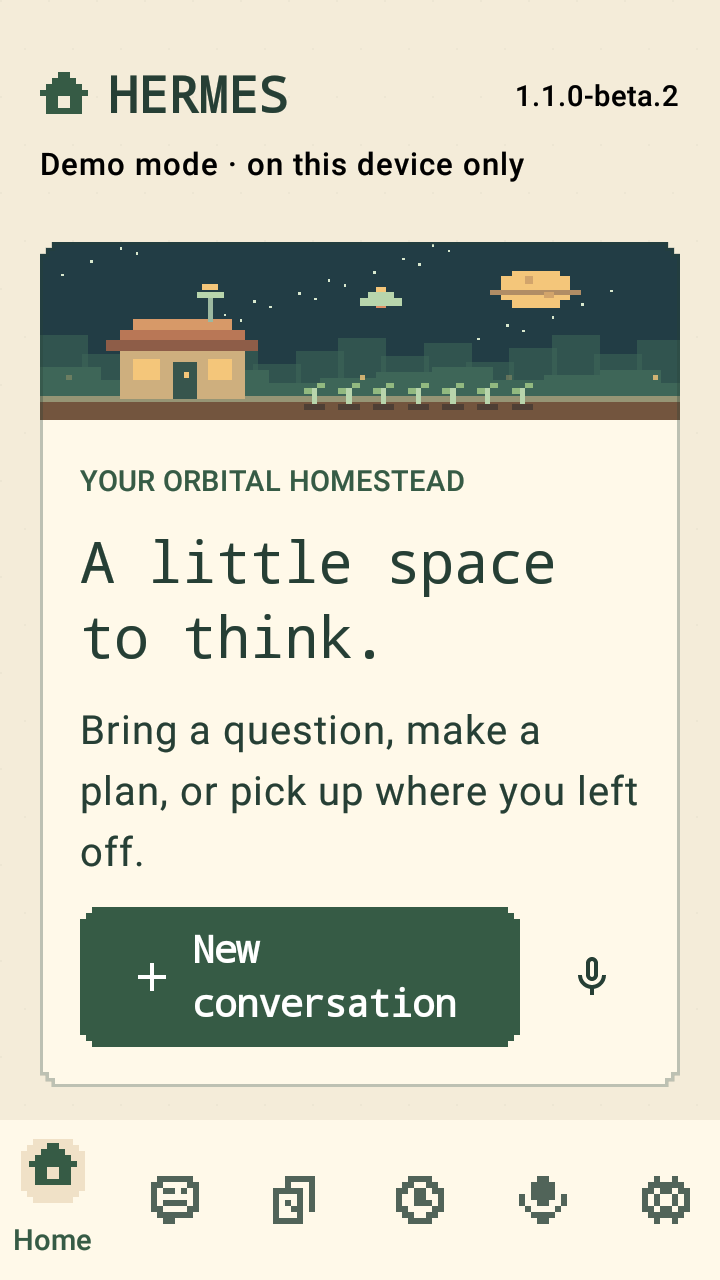
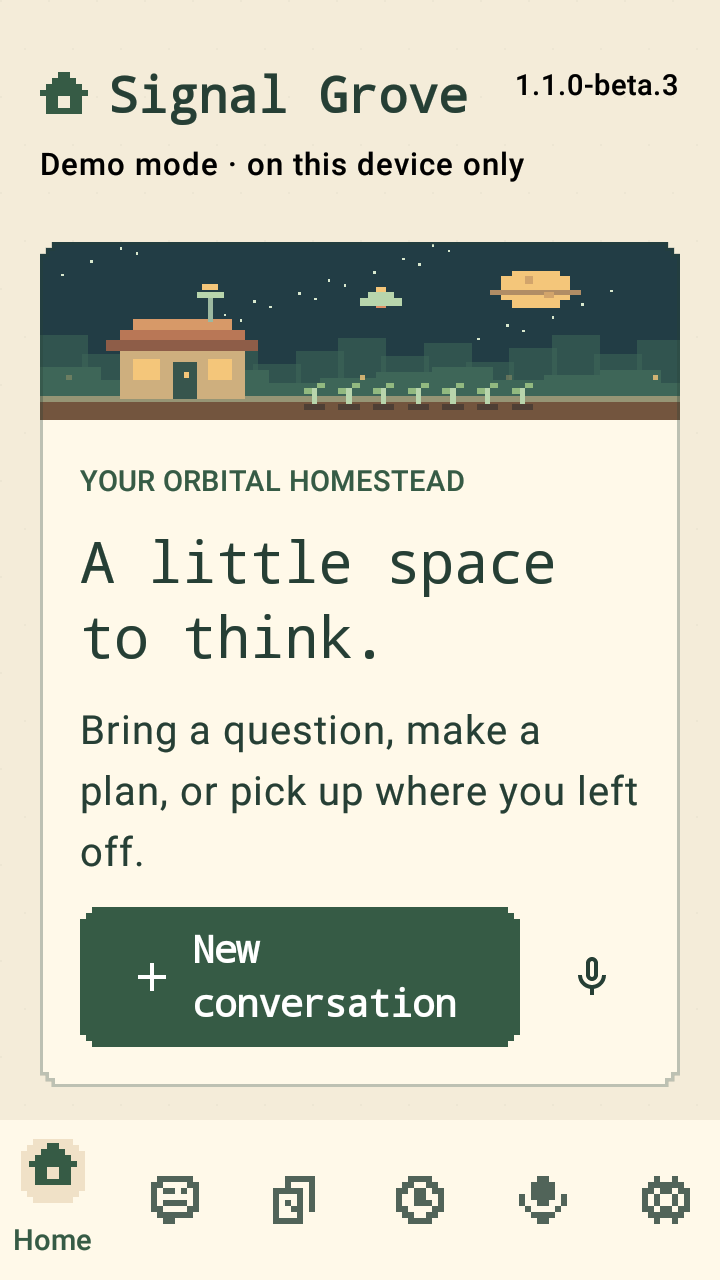
Rebrand Android companion as Signal Grove

Changed region(s): [[0.1528, 0.0312, 0.3972, 0.0938], [0.7028, 0.0625, 0.9472, 0.0938], [0.4278, 0.0625, 0.6417, 0.0938]]

diff --git a/app/src/main/java/org/hermesmobile/app/ui/Strings.kt b/app/src/main/java/org/hermesmobile/app/ui/Strings.kt
@@ -78,7 +78,7 @@ enum class Words(val en: String, val zh: String, val pin: String) {
 
     AppUpdates("App updates","应用更新","Yìngyòng gēngxīn"),
     UpdateInstalled("Installed","已安装","Yǐ ānzhuāng"),
-    UpdateSource("Updates come from the public Hermes Mobile GitHub releases. Checks do not send your Hermes credentials.","更新来自 Hermes Mobile 的公开 GitHub 发布，检查不会发送 Hermes 凭据。","Gēngxīn láizì Hermes Mobile de gōngkāi GitHub fābù, jiǎnchá bù huì fāsòng Hermes píngjù."),
+    UpdateSource("Updates come from the public Signal Grove GitHub releases. Checks do not send your Hermes credentials.","更新来自 Signal Grove 的公开 GitHub 发布，检查不会发送 Hermes 凭据。","Gēngxīn láizì Signal Grove de gōngkāi GitHub fābù, jiǎnchá bù huì fāsòng Hermes píngjù."),
     UpdateAutomatic("Check daily when the app opens","打开应用时每天检查一次","Dǎkāi yìngyòng shí měitiān jiǎnchá yí cì"),
     UpdatePreviews("Include preview releases","包含预览版本","Bāohán yùlǎn bǎnběn"),
     UpdateLastChecked("Last checked","上次检查","Shàng cì jiǎnchá"),
@@ -89,10 +89,10 @@ enum class Words(val en: String, val zh: String, val pin: String) {
     UpdateDownload("Download & update","下载并更新","Xiàzài bìng gēngxīn"),
     UpdateDownloading("Downloading","正在下载","Zhèngzài xiàzài"),
     UpdateDownloadEffect("Downloads this APK from GitHub using your connection. Its size, SHA-256, app identity, newer version and matching signing certificate are checked before installation. Cancel stops the download. A changed or incompatible APK is rejected.","使用网络从 GitHub 下载此 APK。安装前检查大小、SHA-256、应用标识、更新版本及匹配的签名证书。取消会停止下载；更改或不兼容的 APK 会被拒绝。","Shǐyòng wǎngluò cóng GitHub xiàzài cǐ APK. Ānzhuāng qián jiǎnchá dàxiǎo, SHA-256, yìngyòng biāozhì, gèng xīn bǎnběn jí pǐpèi de qiānmíng zhèngshū. Qǔxiāo huì tíngzhǐ xiàzài; gēnggǎi huò bù jiānróng de APK huì bèi jùjué."),
-    UpdateInstallEffect("Android will ask you to allow updates from this app and confirm installation. App data stays in place. Installing restarts Hermes Mobile; it waits while app work is active. If you leave or cancel the installer, the verified download stays available here.","Android 会要求允许此应用安装更新并确认安装。应用数据会保留。安装会重启 Hermes Mobile；应用工作进行时会等待。如果离开或取消安装程序，已验证的下载仍保留在此。","Android huì yāoqiú yǔnxǔ cǐ yìngyòng ānzhuāng gēngxīn bìng quèrèn ānzhuāng. Yìngyòng shùjù huì bǎoliú. Ānzhuāng huì chóngqǐ Hermes Mobile; yìngyòng gōngzuò jìnxíng shí huì děngdài. Rúguǒ líkāi huò qǔxiāo ānzhuāng chéngxù, yǐ yànzhèng de xiàzài réng bǎoliú zài cǐ."),
+    UpdateInstallEffect("Android will ask you to allow updates from this app and confirm installation. App data stays in place. Installing restarts Signal Grove; it waits while app work is active. If you leave or cancel the installer, the verified download stays available here.","Android 会要求允许此应用安装更新并确认安装。应用数据会保留。安装会重启 Signal Grove；应用工作进行时会等待。如果离开或取消安装程序，已验证的下载仍保留在此。","Android huì yāoqiú yǔnxǔ cǐ yìngyòng ānzhuāng gēngxīn bìng quèrèn ānzhuāng. Yìngyòng shùjù huì bǎoliú. Ānzhuāng huì chóngqǐ Signal Grove; yìngyòng gōngzuò jìnxíng shí huì děngdài. Rúguǒ líkāi huò qǔxiāo ānzhuāng chéngxù, yǐ yànzhèng de xiàzài réng bǎoliú zài cǐ."),
     UpdateFinishWork("Finish active app work before installing.","请完成当前应用工作后再安装。","Qǐng wánchéng dāngqián yìngyòng gōngzuò hòu zài ānzhuāng."),
     UpdateInstall("Install verified update","安装已验证的更新","Ānzhuāng yǐ yànzhèng de gēngxīn"),
-    UpdateAllowInstall("Allow updates from Hermes","允许 Hermes 安装更新","Yǔnxǔ Hermes ānzhuāng gēngxīn"),
+    UpdateAllowInstall("Allow updates from Signal Grove","允许 Signal Grove 安装更新","Yǔnxǔ Signal Grove ānzhuāng gēngxīn"),
     UpdateNotes("Release notes","版本说明","Bǎnběn shuōmíng"),
     UpdateReleasePage("View on GitHub","在 GitHub 查看","Zài GitHub chákàn"),
     UpdateHint("Review the release and approve the download in Settings.","请在设置中审阅版本并批准下载。","Qǐng zài shèzhì zhōng shěnyuè bǎnběn bìng pīzhǔn xiàzài."),
@@ -750,7 +750,7 @@ enum class Words(val en: String, val zh: String, val pin: String) {
     Chinese("Show Simplified Chinese","显示简体中文","Xiǎnshì jiǎntǐ Zhōngwén"), Pinyin("Show accented pinyin","显示带声调的拼音","Xiǎnshì dài shēngdiào de pīnyīn"),
     Accessibility("Accessibility","无障碍","Wú zhàng'ài"), ReducedMotion("Reduce motion","减少动画","Jiǎnshǎo dònghuà"),
     About("About & security","关于与安全","Guānyú yǔ ānquán"),
-    AboutBody("Hermes Agent Mobile · {version}. An independent community client, not endorsed by NousResearch. Conversations are stored in app-private storage; the bearer token is encrypted with Android Keystore. Device backups are disabled.","Hermes Agent Mobile · {version}。独立社区客户端，未经 NousResearch 官方认可。对话保存在应用私有存储中；令牌由 Android Keystore 加密。设备备份已禁用。","Hermes Agent Mobile · {version}. Dúlì shèqū kèhùduān, wèi jīng NousResearch guānfāng rènkě. Duìhuà bǎocún zài yìngyòng sīyǒu cúnchǔ zhōng; lìngpái yóu Android Keystore jiāmì. Shèbèi bèifèn yǐ jìnyòng."),
+    AboutBody("Signal Grove · {version}. An independent community client, not endorsed by NousResearch. Conversations are stored in app-private storage; the bearer token is encrypted with Android Keystore. Device backups are disabled.","Signal Grove · {version}。独立社区客户端，未经 NousResearch 官方认可。对话保存在应用私有存储中；令牌由 Android Keystore 加密。设备备份已禁用。","Signal Grove · {version}. Dúlì shèqū kèhùduān, wèi jīng NousResearch guānfāng rènkě. Duìhuà bǎocún zài yìngyòng sīyǒu cúnchǔ zhōng; lìngpái yóu Android Keystore jiāmì. Shèbèi bèifèn yǐ jìnyòng."),
     Security("Your token can grant powerful server access. Use a private VPN or trusted HTTPS. Approvals always require your explicit choice.","令牌可能授予强大的服务器权限。请使用私有 VPN 或可信 HTTPS。批准操作始终需要你明确选择。","Lìngpái kěnéng shòuyǔ qiángdà de fúwùqì quánxiàn. Qǐng shǐyòng sīyǒu VPN huò kěxìn HTTPS. Pīzhǔn cāozuò shǐzhōng xūyào nǐ míngquè xuǎnzé."),
     Github("Source on GitHub","GitHub 源代码","GitHub yuán dàimǎ"), Licences("Open-source licences","开源许可证","Kāiyuán xǔkězhèng"),
     ClearChats("Clear local conversation cache","清除本地对话缓存","Qīngchú běndì duìhuà huǎncún"),

diff --git a/app/src/main/java/org/hermesmobile/app/ui/HermesApp.kt b/app/src/main/java/org/hermesmobile/app/ui/HermesApp.kt
@@ -17,6 +17,8 @@ import androidx.compose.material.icons.outlined.*
 import androidx.compose.material3.*
 import androidx.compose.runtime.*
 import androidx.compose.ui.Modifier
+import androidx.compose.ui.res.stringResource
+import org.hermesmobile.app.R
 import androidx.compose.ui.Alignment
 import androidx.compose.ui.graphics.vector.ImageVector
 import androidx.compose.ui.unit.dp
@@ -25,7 +27,9 @@ import androidx.navigation.compose.*
 
 data class Destination(val word: Words, val icon: ImageVector) { val route get()=word.name }
 val destinations=listOf(Destination(Words.Home,Icons.Outlined.Home),Destination(Words.Chat,Icons.Outlined.ChatBubbleOutline),Destination(Words.Tasks,Icons.Outlined.CheckCircleOutline),Destination(Words.Automation,Icons.Outlined.Schedule),Destination(Words.Voice,Icons.Outlined.MicNone),Destination(Words.Settings,Icons.Outlined.Tune))
+@OptIn(ExperimentalLayoutApi::class)
 @Composable fun HermesApp(vm: HermesViewModel,requestedRoute: String? = null,handled: ()->Unit = {},sharedImages:org.hermesmobile.app.data.SharedImages?=null,shareHandled:()->Unit={}) {
+    val brand=stringResource(R.string.app_name)
     val nav=rememberNavController()
     val back by nav.currentBackStackEntryAsState()
     val current=back?.destination?.route ?: "Home"
@@ -40,13 +44,13 @@ val destinations=listOf(Destination(Words.Home,Icons.Outlined.Home),Destination(
     BoxWithConstraints(Modifier.fillMaxSize().background(MaterialTheme.colorScheme.background).pixelPaper(MaterialTheme.colorScheme.onBackground)) {
         val wide=maxWidth>=840.dp
         Row(Modifier.fillMaxSize()) {
-            if(wide) NavigationRail(Modifier.fillMaxHeight().width(124.dp),containerColor=MaterialTheme.colorScheme.surface,header={ Text("H",style=MaterialTheme.typography.headlineLarge,modifier=Modifier.padding(20.dp)) }) {
+            if(wide) NavigationRail(Modifier.fillMaxHeight().width(124.dp),containerColor=MaterialTheme.colorScheme.surface,header={ Text("SG",style=MaterialTheme.typography.headlineLarge,modifier=Modifier.padding(20.dp).semantics {contentDescription=brand}) }) {
                 destinations.forEach { d -> NavigationRailItem(colors=NavigationRailItemDefaults.colors(indicatorColor=androidx.compose.ui.graphics.Color.Transparent),selected=current==d.route,onClick={go(d.route)},icon={PixelNavIcon(d.route,current==d.route)},label={Text(label(d.word))},modifier=Modifier.padding(vertical=4.dp)) }
             }
             Scaffold(modifier=Modifier.weight(1f),containerColor=androidx.compose.ui.graphics.Color.Transparent,
                 topBar={ Column(Modifier.statusBarsPadding().fillMaxWidth().padding(horizontal=20.dp,vertical=8.dp)) {
-                    Row(Modifier.fillMaxWidth(),horizontalArrangement=Arrangement.SpaceBetween,verticalAlignment=Alignment.CenterVertically) {
-                        Row(verticalAlignment=Alignment.CenterVertically,horizontalArrangement=Arrangement.spacedBy(10.dp)) {PixelIcon("Home",tint=MaterialTheme.colorScheme.primary);Text("HERMES",style=MaterialTheme.typography.titleLarge,color=MaterialTheme.colorScheme.onBackground)}
+                    FlowRow(Modifier.fillMaxWidth(),horizontalArrangement=Arrangement.SpaceBetween,verticalArrangement=Arrangement.spacedBy(4.dp)) {
+                        Row(Modifier.padding(end=12.dp),verticalAlignment=Alignment.CenterVertically,horizontalArrangement=Arrangement.spacedBy(10.dp)) {PixelIcon("Home",tint=MaterialTheme.colorScheme.primary);Text(brand,style=MaterialTheme.typography.titleLarge,color=MaterialTheme.colorScheme.onBackground)}
                         if(keyboardOpen) Icon(if(connection=="connected") Icons.Outlined.CloudDone else if(connection=="demo") Icons.Outlined.SmartToy else Icons.Outlined.CloudOff,label(when(connection) {"demo"->Words.Demo;"connected"->Words.Connected;else->Words.Offline}))
                         Text(org.hermesmobile.app.BuildConfig.VERSION_NAME,style=MaterialTheme.typography.labelSmall,maxLines=1)
                     }

diff --git a/app/src/androidTest/java/org/hermesmobile/app/PixelPolishFlowTest.kt b/app/src/androidTest/java/org/hermesmobile/app/PixelPolishFlowTest.kt
@@ -10,6 +10,7 @@ import androidx.compose.ui.graphics.asAndroidBitmap
 import androidx.lifecycle.ViewModelProvider
 import org.hermesmobile.app.data.AppPreferences
 import org.hermesmobile.app.ui.*
+import org.junit.Assert.*
 import org.junit.Rule
 import org.junit.Test
 import java.io.File
@@ -19,16 +20,27 @@ class PixelPolishFlowTest {
     @get:Rule(order=1) val updates=UpdateFixtureRule()
     @get:Rule(order=2) val compose=createAndroidComposeRule<MainActivity>()
     private fun exercise(reduced:Boolean) {
+        fun assertBrandFits() {
+            val brand=compose.activity.getString(R.string.app_name)
+            assertEquals("Signal Grove",brand)
+            val title=compose.onNodeWithText(brand,useUnmergedTree=true).assertIsDisplayed().getUnclippedBoundsInRoot()
+            val version=compose.onNodeWithText(BuildConfig.VERSION_NAME,useUnmergedTree=true).assertIsDisplayed().getUnclippedBoundsInRoot()
+            val frame=compose.onRoot().getUnclippedBoundsInRoot()
+            assertTrue(title.left>=frame.left && title.right<=frame.right && version.left>=frame.left && version.right<=frame.right)
+            assertTrue(title.right<=version.left || version.right<=title.left || title.bottom<=version.top || version.bottom<=title.top)
+        }
         val original=Settings.Global.getFloat(compose.activity.contentResolver,Settings.Global.ANIMATOR_DURATION_SCALE,1f)
         fun scale(v:Float) {androidx.test.platform.app.InstrumentationRegistry.getInstrumentation().uiAutomation.executeShellCommand("settings put global animator_duration_scale $v").use {android.os.ParcelFileDescriptor.AutoCloseInputStream(it).use {stream->stream.readBytes()}}}
         try {
             scale(1f)
             val vm=ViewModelProvider(compose.activity)[HermesViewModel::class.java]
             compose.runOnUiThread {compose.activity.setContent {HermesAppTheme(AppPreferences(theme="STARHAVEN",chinese=false,pinyin=false,reducedMotion=reduced)) {HermesApp(vm)}}}
+            assertBrandFits()
             compose.onNodeWithText(Words.Greeting.en).assertIsDisplayed()
             compose.onNodeWithTag("home-voice-action").assertWidthIsAtLeast(48.dp).assertHeightIsAtLeast(48.dp)
             val shot=File(compose.activity.getExternalFilesDir(null),"qa/pixel-home-${if(reduced) "still" else "motion"}.png");shot.parentFile!!.mkdirs();shot.outputStream().use {compose.onRoot().captureToImage().asAndroidBitmap().compress(Bitmap.CompressFormat.PNG,100,it)}
             for(route in listOf("Tasks","Voice","Chat","Settings","Home")) {compose.onNodeWithContentDescription(route,useUnmergedTree=true).performClick();compose.waitForIdle()}
+            assertBrandFits()
             compose.onNodeWithText(Words.Greeting.en).assertIsDisplayed()
             if(!reduced) {scale(0f);compose.waitForIdle();compose.onNodeWithContentDescription("Tasks",useUnmergedTree=true).performClick();compose.onNodeWithContentDescription("Home",useUnmergedTree=true).performClick();compose.onNodeWithText(Words.Greeting.en).assertIsDisplayed()}
         } finally {scale(original)}

diff --git a/app/src/main/java/org/hermesmobile/app/background/BackgroundChecks.kt b/app/src/main/java/org/hermesmobile/app/background/BackgroundChecks.kt
@@ -57,7 +57,7 @@ class ReminderWorker(context: Context,params: WorkerParameters):CoroutineWorker(
             if(!enabled(config)) return
             if(dao.claimNotification(NotificationReceipt(key,System.currentTimeMillis()))==-1L) return
             val open=PendingIntent.getActivity(app,route.hashCode(),Intent(app,MainActivity::class.java).putExtra("destination",route).addFlags(Intent.FLAG_ACTIVITY_SINGLE_TOP or Intent.FLAG_ACTIVITY_CLEAR_TOP),PendingIntent.FLAG_UPDATE_CURRENT or PendingIntent.FLAG_IMMUTABLE)
-            val public=NotificationCompat.Builder(app,BackgroundChecks.CHANNEL).setSmallIcon(R.drawable.ic_notification).setContentTitle("Hermes Agent Mobile").setContentText(Words.UpdatesAvailable.localized(p)).build()
+            val public=NotificationCompat.Builder(app,BackgroundChecks.CHANNEL).setSmallIcon(R.drawable.ic_notification).setContentTitle(app.getString(R.string.app_name)).setContentText(Words.UpdatesAvailable.localized(p)).build()
             val notification=NotificationCompat.Builder(app,BackgroundChecks.CHANNEL).setSmallIcon(R.drawable.ic_notification).setContentTitle(title).setContentText(text).setStyle(NotificationCompat.BigTextStyle().bigText(text)).setContentIntent(open).setAutoCancel(true).setVisibility(NotificationCompat.VISIBILITY_PRIVATE).setPublicVersion(public).build()
             try {NotificationManagerCompat.from(app).notify(key.hashCode(),notification)} catch(_:SecurityException) { }
         }

diff --git a/app/src/main/java/org/hermesmobile/app/network/NativeLogin.kt b/app/src/main/java/org/hermesmobile/app/network/NativeLogin.kt
@@ -46,7 +46,7 @@ class NativeLogin:Closeable {
                     code=callback(first[1],state)
                 }
                 runCatching {
-                    val body=if(code!=null) "Sign-in received. You may return to Hermes Agent Mobile." else "Invalid sign-in callback. Return to the sign-in page or cancel in the app."
+                    val body=if(code!=null) "Sign-in received. You may return to Signal Grove." else "Invalid sign-in callback. Return to the sign-in page or cancel in the app."
                     val status=if(code!=null) "200 OK" else "400 Bad Request"
                     val response="HTTP/1.1 $status\r\nContent-Type: text/plain; charset=utf-8\r\nContent-Length: ${body.toByteArray().size}\r\nCache-Control: no-store\r\nReferrer-Policy: no-referrer\r\nContent-Security-Policy: default-src 'none'\r\nConnection: close\r\n\r\n$body"
                     client.getOutputStream().write(response.toByteArray(Charsets.UTF_8))

diff --git a/app/src/main/java/org/hermesmobile/app/ui/TaskFiles.kt b/app/src/main/java/org/hermesmobile/app/ui/TaskFiles.kt
@@ -40,7 +40,7 @@ import java.io.ByteArrayOutputStream
         Word(Words.TaskFiles);Text(label(Words.TaskFilesInfo))
         TextButton({scope.launch {
             working=true;result=null
-            try {pendingExport=withContext(Dispatchers.IO) {vm.taskBackup()};export.launch("hermes-tasks.json")}
+            try {pendingExport=withContext(Dispatchers.IO) {vm.taskBackup()};export.launch("signal-grove-tasks.json")}
             catch(e:CancellationException) {throw e} catch(_:Exception) {result=Words.TaskFileError} finally {working=false}
         }},enabled=!working) {Text(label(Words.ExportTasks))}
         TextButton({import.launch(arrayOf("application/json","text/plain"))},enabled=!working) {Text(label(Words.ImportTasks))}

diff --git a/docs/VALIDATION.md b/docs/VALIDATION.md
@@ -1,5 +1,19 @@
 # Current development validation — audit follow-up
 
+## 2026-11-04 — Signal Grove rebrand
+
+Defaults are **104 / 1.1.0-beta.3**. The launcher/widget label, responsive app header and compact SG rail mark, notification title/icons, sign-in success text, About text, update-source approval and task entry text now use **Signal Grove**. English, Chinese and pinyin retain the proper brand name. Task export suggests `signal-grove-tasks.json`; the backup format marker is unchanged. Current documentation, design preview, screenshots and public repository description use the new brand. Historical screenshots/releases and compatibility identifiers retain their actual identities; see [branding](BRANDING.md).
+
+Required debug build and lint passed in **7m 20s** with **413 JVM tests**, zero failures/errors/skips. Signed production assembly and release lint pass with the original signer. **92 offline checks** and strict **495-component / 1071-artifact** checksum policy pass.
+
+The same immutable debug/test APK pair passed **28 focused native cases on each owned API 26 / 36 / 37 emulator**, plus **two API-36 tablet cases**. Extended real-app navigation assertions verify the full brand and version remain displayed, within the root width and non-overlapping before and after navigation. Pixel motion/reduced motion, updater review/download/integrity/storage controls, historical database migration and management-receipt privacy remain covered. No native case was ignored, assumption-failed, retried or weakened. Phone **1080×2400 / density 420**, narrow **720×1280 / density 320 / font 1.3** and wide **1920×1200 / density 240** captures were inspected; wide overrides were restored. Four additional palette screenshots were captured from the actual labelled Demo app, without image edits. Older evidence images remain historical.
+
+The **signed production beta.2 (103) → Signal Grove beta.3 (104)** in-place PackageManager upgrade on the owned API-37 emulator preserves the original `PixelRelease102Retention` task as an actual visible TextView above navigation, outside the search editor, at least 24 physical pixels high. The new header is also verified. No uninstall, clear-data or replacement signing key was used. This is an `adb install -r` production upgrade; the preceding beta.2 three-platform approved in-app replacement evidence remains historical. No new physical/OEM or live-Hermes certification is claimed.
+
[1 lines of base64/hex data omitted]
+
+Exact release-commit Android and compatibility CI remain publication gates; their terminal results and any later real public-update proof are recorded in the release notes. No current local unfiltered full-suite pass is inferred from focused tests. The broader integration/automation audit goal remains active.
+
 ## 2026-11-04 — beta.2 release candidate
 
 Defaults are now **103 / 1.1.0-beta.2**. Only release metadata and documentation changed from **e03199c**; Android source, schemas, dependency policy, source-watch baseline and contracts remain unchanged. The original pixel interface/updater was published in beta.1; this candidate includes the later physical-pixel clock/progress refinements and intervening reviewed management work.

diff --git a/README.md b/README.md
@@ -1,10 +1,12 @@
-# Hermes Agent Mobile
+# Signal Grove
 
 An unofficial, open-source native Android client for [Hermes Agent](https://github.com/NousResearch/hermes-agent). Your agent runs on your infrastructure; the phone is its companion.
 
 **Stable 1.0.0 · Android 8.0+ (API 26) · Kotlin · Jetpack Compose · MIT**
 
-Development preview is `1.1.0-beta.2`: original pixel-art retrofuturism, motion polish and approved in-app GitHub updates, alongside audit correctness fixes, server capability/readiness/model/skill/toolset discovery, reviewed management controls and Skill Hub preview/scan/installation/maintenance. [Implementation progress](docs/AUDIT_FOLLOW_UP.md) · [Current validation](docs/VALIDATION.md).
+Development preview is `1.1.0-beta.3`: original pixel-art retrofuturism, motion polish and approved in-app GitHub updates, alongside audit correctness fixes, server capability/readiness/model/skill/toolset discovery, reviewed management controls and Skill Hub preview/scan/installation/maintenance. [Implementation progress](docs/AUDIT_FOLLOW_UP.md) · [Current validation](docs/VALIDATION.md).
+
+[Brand and upgrade compatibility](docs/BRANDING.md).
 
 Independent community project. Not affiliated with or endorsed by NousResearch. Hermes Agent is a separate project.
 
@@ -16,11 +18,11 @@ Five interchangeable palettes, persistent conversations, English / Simplified Ch
 
 | Lavender Original | Jade Terminal | Solar Archive | Mint Circuit |
 | --- | --- | --- | --- |
-| ![Lavender](docs/screenshots/home-lavender.png) | ![Jade](docs/screenshots/home-jade.png) | ![Solar](docs/screenshots/home-solar.png) | ![Mint](docs/screenshots/home-mint.png) |
+| ![Lavender](docs/screenshots/signal-grove-lavender.png) | ![Jade](docs/screenshots/signal-grove-jade.png) | ![Solar](docs/screenshots/signal-grove-solar.png) | ![Mint](docs/screenshots/signal-grove-mint.png) |
 
 Actual Android 16 emulator screenshots in Demo mode. [Chat, tasks and tablet screenshots](docs/screenshots.md) · [Validation results](docs/VALIDATION.md) · [Original design preview](docs/design-preview.svg).
 
-Try the [1.1.0-beta.2 preview](https://github.com/DionCroft/hermes-agent-android/releases/tag/v1.1.0-beta.2) for the pixel interface and approved updater. The signed production APK and optional development-upgrade APK are also available from the [stable community release](https://github.com/DionCroft/hermes-agent-android/releases/tag/v1.0.0). See the [install/migration guide](docs/USER_GUIDE.md) for production vs debug data. Local outputs are under `app/build/outputs/apk/`.
+Try the [1.1.0-beta.3 preview](https://github.com/DionCroft/hermes-agent-android/releases/tag/v1.1.0-beta.3) for the pixel interface and approved updater. The signed production APK and optional development-upgrade APK are also available from the [stable community release](https://github.com/DionCroft/hermes-agent-android/releases/tag/v1.0.0). See the [install/migration guide](docs/USER_GUIDE.md) for production vs debug data. Local outputs are under `app/build/outputs/apk/`.
 
 ## Features
 

diff --git a/docs/DEVELOPMENT.md b/docs/DEVELOPMENT.md
@@ -36,7 +36,7 @@ Use [the release process](RELEASING.md) for signing, private key backup and publ
 
 The normal debug instrumentation APK contains the standard `androidx.test.runner.AndroidJUnitRunner` and a separate `org.hermesmobile.app.SelfUpdateInstrumentation`. The standard runner still discovers every normal case. The standalone runner has no JUnit tests or skips and runs only when explicitly invoked by component name. No special Gradle runner switch or production instrumentation is needed.
 
-Use only disposable owned English-language QA emulators for an actual package replacement. Keep the existing debug signing key. Build and copy a higher-code, higher-version full debug APK using `-PhermesVersionCode=103 -PhermesVersionName=1.1.0-beta.2`; preserve it before rebuilding the normal current version. Also prepare a copy signed by an unrelated throwaway fixture key. Never replace the owner’s upgrade key, publish future-version QA APKs, or use the production signing key for negative fixtures.
+Use only disposable owned English-language QA emulators for an actual package replacement. Keep the existing debug signing key. Build and copy a higher-code, higher-version full debug APK using explicit local-fixture overrides (for example `-PhermesVersionCode=105 -PhermesVersionName=1.1.0-beta.4` when testing the code-104 beta.3 base). Always choose values higher than the base under test; these examples are not published releases. Preserve the fixture before rebuilding the normal current version. Also prepare a copy signed by an unrelated throwaway fixture key. Never replace the owner’s upgrade key, publish future-version QA APKs, or use the production signing key for negative fixtures.
 
 Place those APKs under the target app’s external `files/qa-updates/` directory, then invoke `org.hermesmobile.app.debug.test/org.hermesmobile.app.SelfUpdateInstrumentation` with `candidate`, `wrong_signer`, `version`, `expected_code` and a unique `marker` argument. It uses public-metadata fixtures through the real updater transport, rejects the wrong signer, opens the actual review, approves the download, checks the active-work guard and drives Android’s source permission and install confirmation. It does not contact a Hermes host or silently grant a source permission. Launch/control waits are bounded, and failure screenshots stay in the emulator’s QA directory.
 

diff --git a/docs/APP_UPDATES.md b/docs/APP_UPDATES.md
@@ -8,7 +8,7 @@ Choose **Review update** to inspect the version, download size, repository and r
 
 The app checks the GitHub SHA-256 and byte count, Android package ID, exact version name, strictly increasing version code, supported Android level and the currently installed signing certificate. Production also refuses a debuggable APK. Stable public HTTPS and approved GitHub asset redirect hosts are required. Missing checksums/assets and mismatched signatures leave an explanation instead of an install action. A production APK cannot update the separate debug package. A strict current-signer match means signing-key rotation needs a separately designed migration.
 
-After verification, installation waits while Hermes runs, connection operations, scheduled-job actions or management actions are active. The app hands the APK to Android only while visible. On first use, Android asks you to allow updates from Hermes; return to the app after granting it. Android then asks you to confirm the update. Denying or canceling leaves the installed version unchanged. The app cannot silently bypass those Android decisions. Installation restarts the app, so finish your work first. You can retry the verified installer action after cancellation.
+After verification, installation waits while Hermes runs, connection operations, scheduled-job actions or management actions are active. The app hands the APK to Android only while visible. On first use, Android asks you to allow updates from Signal Grove; return to the app after granting it. Android then asks you to confirm the update. Denying or canceling leaves the installed version unchanged. The app cannot silently bypass those Android decisions. Installation restarts the app, so finish your work first. You can retry the verified installer action after cancellation.
 
 Initial installation of this preview still uses the release APK from GitHub. Older 1.0.0 installations have no updater. Install the matching package over your existing installation with the original signer to preserve its private data. Never uninstall to work around a signing error; the original signer is required for a normal update.
 

diff --git a/docs/COMPATIBILITY.md b/docs/COMPATIBILITY.md
@@ -8,7 +8,7 @@ API-owned sessions are supported; imported CLI/Desktop shared ownership is outsi
 
 The shipped Demo is a local simulator. Fixture tests validate request/response and lifecycle behavior without a production agent. The owner's live endpoint/credentials and physical microphone/speaker hardware were not supplied. See the release validation record for device matrix, exact counts and any remaining manual checks.
 
-Development `1.1.0-dev` adds read-only `GET /health/detailed`, `/api/model/options`, `/v1/skills` and `/v1/toolsets`, exposed when their endpoint entries are advertised. Each configured prefix and bearer credential is retained. A successful HTTP diagnostic response may report degraded readiness. The catalog includes unavailable/unauthenticated providers and optional capability/pricing hints; those are server metadata, not a guarantee of runtime availability or cost. Integration execution still happens on Hermes using its configured API-server toolsets.
+The Signal Grove `1.1.0-beta.3` preview includes read-only `GET /health/detailed`, `/api/model/options`, `/v1/skills` and `/v1/toolsets`, exposed when their endpoint entries are advertised. Each configured prefix and bearer credential is retained. A successful HTTP diagnostic response may report degraded readiness. The catalog includes unavailable/unauthenticated providers and optional capability/pricing hints; those are server metadata, not a guarantee of runtime availability or cost. Integration execution still happens on Hermes using its configured API-server toolsets.
 
 Schema 5 preserves earlier sessions/receipts while adding a request hash and optional stable channel key. Full requests are bounded to 10 MB outside Room rows; text messages are capped at 64000 UTF-16 code units. The exact header/body is reused on a missing-ID Runs recovery within the existing 23-hour client window. The server's retention/admission guarantees still govern replay. Structured image history, native image picking and request-envelope support are implemented; the reviewed share target is implemented. Requested model overrides are implemented.
 

diff --git a/docs/BRANDING.md b/docs/BRANDING.md
@@ -1,0 +1,22 @@
+# Signal Grove
+
+Signal Grove is the Android companion app. Hermes Agent is the separate upstream agent running on your infrastructure. The client was previously called Hermes Agent Mobile.
+
+Use **Signal Grove** in app labels, headings, notifications, help, screenshots and community documentation. The compact mark is **SG**. The existing palettes, including Starhaven Grove, keep their individual theme names.
+
+## Existing installations and update compatibility
+
+The product rename preserves the following technical identities so existing data, logins, widgets, backups and approved updates continue to work:
+
+| Identity | Compatibility value |
+| --- | --- |
+| Production Android package | `org.hermesmobile.app` |
+| Development Android package | `org.hermesmobile.app.debug` |
+| Source and update-feed address | `DionCroft/hermes-agent-android` |
+| Public APK asset names | `hermes-agent-mobile-VERSION.apk` and `hermes-agent-mobile-VERSION-debug.apk` |
+| Task-backup format marker | `hermes-mobile-tasks`, version 1 |
+| Private database, keys and durable request scopes | Existing names and values |
+
+The older updater verifies the exact repository path and APK asset names. Renaming that feed immediately would prevent those installed clients from discovering a normal upgrade. Repository links therefore use the existing compatibility address while their displayed product name is Signal Grove. No new Android package or replacement signing key is created.
+
+Historical releases, source snapshots, signing-certificate subjects, protocol strings and upstream Hermes references retain their actual identities. The original contributor attribution remains an explicit former-name alias. These identifiers are compatibility/evidence records, not the current display brand.
